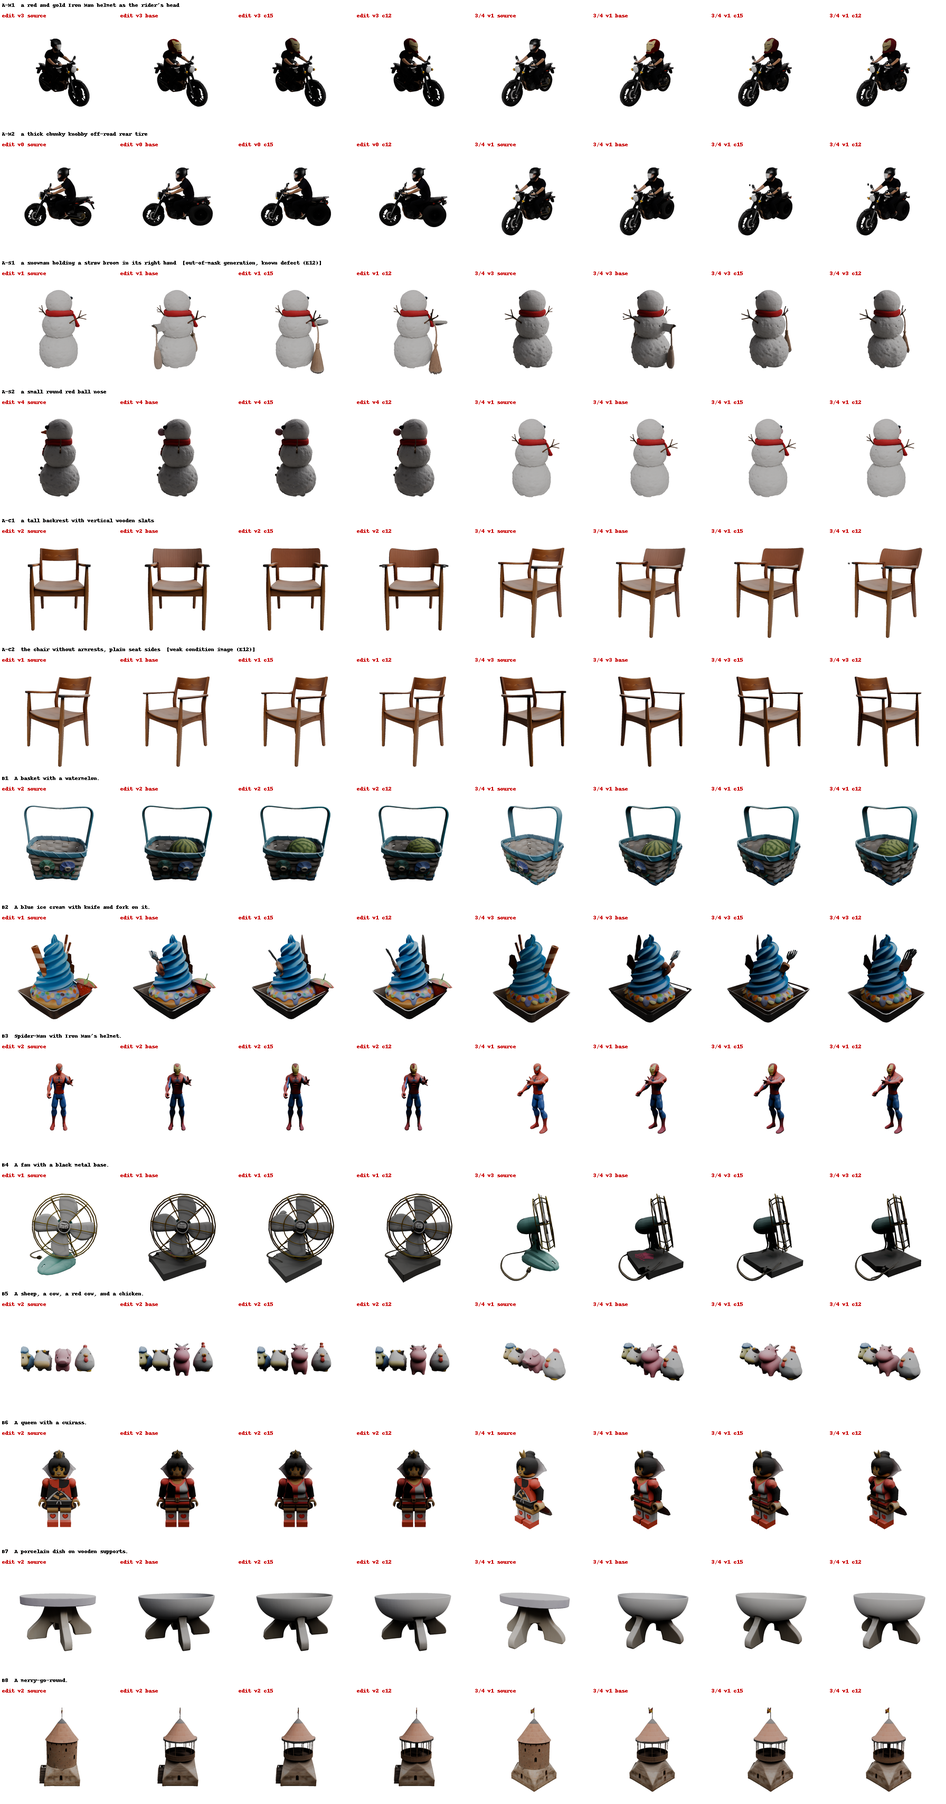
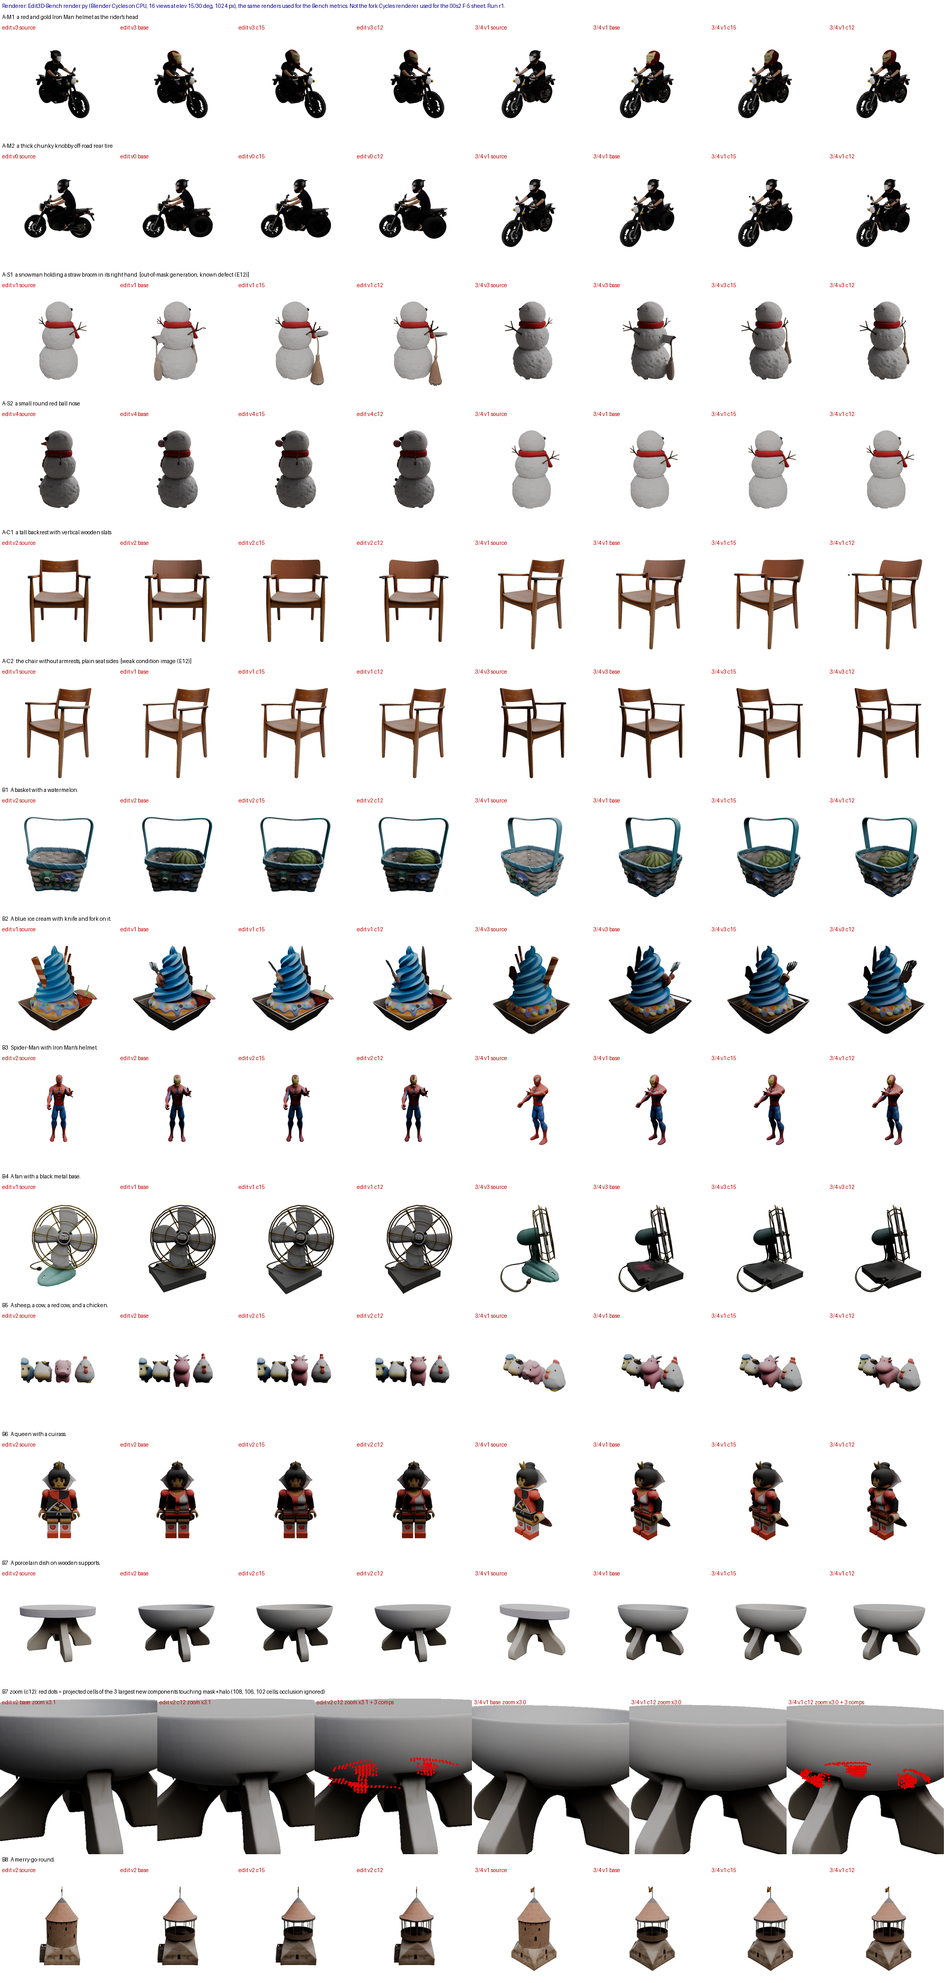
E2a: s1-12/s2-12 Track B r1 metrics (stage attribution 7a), B7 zoom row, renderer caption; e2a_metrics run/track filters, eval merge

diff --git a/tools/e2a_visual.py b/tools/e2a_visual.py
@@ -2,6 +2,9 @@
 
 렌더는 tools/e2a_metrics.py render 가 만든 Bench 16시점(CPU Cycles, 고도 15°·30° × 방위 8)을 그대로 쓴다.
 F-5 시점 v(고도 15°, 방위 [90,45,0,315,270][v]−90)는 Bench 16시점의 고도 15° 줄에서 방위가 같은 번호로 옮긴다.
+B7 은 c12 에서 마스크 ∪ halo 에 붙어 늘어난 큰 성분 3개(§4a)의 확대 컷을 한 줄 더 둔다: 성분 셀 중심을 Bench 카메라
+(반지름 1.8, 원점 주시, Z 위, 센서 32 mm·렌즈 35 mm → 화각 49.1°)로 투영해 그 범위를 자르고, 마지막 칸에 투영 위치를
+빨간 점으로 겹친다(가림은 무시).
 시트: docs/reports/img/01-E2a-visual.png
 """
 from __future__ import annotations
@@ -10,6 +13,9 @@ import json
 import os
 from pathlib import Path
 
+import math
+
+import numpy as np
 from PIL import Image, ImageDraw
 
 ROOT = Path(__file__).resolve().parents[1]
@@ -19,6 +25,9 @@ CONFIGS = ("base", "c15", "c12")
 F5_TO_BENCH = {0: 2, 1: 1, 2: 0, 3: 7, 4: 6}
 TAGS = {"A-C2": "weak condition image (E12)", "A-S1": "out-of-mask generation, known defect (E12)"}
 T = 224
+HEADER = ("Renderer: Edit3D-Bench render.py (Blender Cycles on CPU, 16 views at elev 15/30 deg, 1024 px), "
+          "the same renders used for the Bench metrics. Not the fork Cycles renderer used for the 00s2 F-5 sheet. Run r1.")
+BENCH_AZ = [0, 45, 90, 135, 180, 225, 270, 315]
 
 
 def items():
@@ -42,6 +51,80 @@ def tile(png, caption):
     return t
 
 
+def b7_components(k=3):
+    """B7 c12 의 R_keep 증가 셀(§4a) 중 마스크 ∪ halo 에 맞닿은 큰 성분 k 개의 셀 좌표."""
+    import sys
+    from safetensors import safe_open
+    from scipy import ndimage
+    sys.path.insert(0, str(ROOT / "third_party" / "ai-ar-v3" / "contract" / "python"))
+    from deltacontract.coords import dilate_cells
+    runs = Path(os.environ["RUNS_DIR"])
+    co = lambda p: safe_open(str(p), "np").get_tensor("coords")[:, 1:].astype(int)
+
+    def vol(c):
+        v = np.zeros((64, 64, 64), bool)
+        v[tuple(c.T)] = True
+        return v
+    src = vol(co(ASSETS / "track_b" / "B7" / "slat.safetensors"))
+    excl = vol(dilate_cells(np.array(json.loads((ASSETS / "track_b" / "B7" / "mask.json").read_text())["mask"]["voxels"]), 2))
+    base = vol(co(runs / "01-port" / "track_b-B7" / "port-r1" / "slat_tgt.safetensors"))
+    c12 = vol(co(runs / "2026-10-25" / "track_b-B7" / "e2a-c12" / "r1" / "slat_tgt.safetensors"))
+    inc = (c12 & ~src & ~excl) & ~(base & ~src & ~excl)
+    lab, n = ndimage.label(inc, structure=np.ones((3, 3, 3)))
+    touch = ndimage.binary_dilation(excl, structure=np.ones((3, 3, 3)))
+    comps = [np.argwhere(lab == i) for i in range(1, n + 1) if (touch & (lab == i)).any()]
+    return sorted(comps, key=len, reverse=True)[:k]
+
+
+def project(cells, view, W):
+    """TRELLIS 셀 → Bench 카메라 view 의 픽셀 (x, y). 결과 GLB 가 Bench 프레임과 정렬돼 있어 셀 중심 (i+0.5)/64−0.5 를 그대로 쓴다."""
+    P = (cells + 0.5) / 64 - 0.5
+    el, az = math.radians(15 if view < 8 else 30), math.radians(BENCH_AZ[view % 8] - 90)
+    cam = 1.8 * np.array([math.cos(el) * math.cos(az), math.cos(el) * math.sin(az), math.sin(el)])
+    f = -cam / np.linalg.norm(cam)
+    r = np.cross(f, [0, 0, 1])
+    r /= np.linalg.norm(r)
+    u = np.cross(r, f)
+    d = P - cam
+    t = 16 / 35
+    return np.stack([(d @ r / (d @ f) / t * 0.5 + 0.5) * W, (0.5 - d @ u / (d @ f) / t * 0.5) * W], 1)
+
+
+def b7_zoom_row(it, width):
+    comps = b7_components()
+    cells = np.concatenate(comps)
+    tz = width // 6
+    tiles = []
+    for k, v in enumerate(it["views"]):
+        name = f"render_{F5_TO_BENCH[v]:04d}.png"
+        vt = "edit" if k == 0 else "3/4"
+        ims = {c: Image.alpha_composite(Image.new("RGBA", Image.open(it["pred"](c) / name).size, "white"),
+                                        Image.open(it["pred"](c) / name).convert("RGBA")).convert("RGB") for c in ("base", "c12")}
+        W = ims["c12"].width
+        xy = project(cells, F5_TO_BENCH[v], W)
+        (x0, y0), (x1, y1) = xy.min(0), xy.max(0)
+        half = max(x1 - x0, y1 - y0) / 2 + W * 0.04
+        cx, cy = (x0 + x1) / 2, (y0 + y1) / 2
+        box = tuple(int(round(b)) for b in (cx - half, cy - half, cx + half, cy + half))
+        zoom = tz / (box[2] - box[0])
+        for c, over in (("base", False), ("c12", False), ("c12", True)):
+            t = ims[c].crop(box).resize((tz, tz), Image.LANCZOS)
+            dr = ImageDraw.Draw(t)
+            if over:
+                for comp in comps:
+                    for px, py in project(comp, F5_TO_BENCH[v], W):
+                        qx, qy = (px - box[0]) * zoom, (py - box[1]) * zoom
+                        dr.ellipse((qx - 1.5, qy - 1.5, qx + 1.5, qy + 1.5), fill=(230, 0, 0))
+            dr.text((4, 4), f"{vt} v{v} {c} zoom x{zoom * W / T:.1f}" + (" + 3 comps" if over else ""), fill=(200, 0, 0))
+            tiles.append(t)
+    row = Image.new("RGB", (width, tz + 20), "white")
+    ImageDraw.Draw(row).text((4, 4), "B7 zoom (c12): red dots = projected cells of the 3 largest new components touching "
+                             f"mask+halo ({', '.join(str(len(c)) for c in comps)} cells; occlusion ignored)", fill=(0, 0, 0))
+    for i, t in enumerate(tiles):
+        row.paste(t, (tz * i, 20))
+    return row
+
+
 def main():
     rows = []
     for it in items():
@@ -57,10 +140,17 @@ def main():
         for i, t in enumerate(tiles):
             row.paste(t, (T * i, 20))
         rows.append(row)
+        if it["id"] == "B7":
+            rows.append(b7_zoom_row(it, row.width))
         print("visual", it["id"], flush=True)
+    head = Image.new("RGB", (rows[0].width, 22), "white")
+    ImageDraw.Draw(head).text((4, 5), HEADER, fill=(0, 0, 160))
+    rows.insert(0, head)
     sheet = Image.new("RGB", (rows[0].width, sum(r.height for r in rows)), "white")
-    for i, r in enumerate(rows):
-        sheet.paste(r, (0, r.height * i))
+    y = 0
+    for r in rows:
+        sheet.paste(r, (0, y))
+        y += r.height
     dst = ROOT / "docs" / "reports" / "img" / "01-E2a-visual.png"
     dst.parent.mkdir(parents=True, exist_ok=True)
     sheet.save(dst, optimize=True)

diff --git a/tools/e2a_metrics.py b/tools/e2a_metrics.py
@@ -30,6 +30,9 @@ EVAL_PY = os.environ.get("EVAL_PY", str(Path.home() / "vhl-venvs/edit3dbench/bin
 BENCH_SRC = ROOT / "third_party" / "VoxHammer" / "Edit3D-Bench"
 SCEN_DIR = ROOT / "scenarios" if (ROOT / "scenarios" / "track_b.json").exists() else ROOT.parent / "vhl-00s2" / "scenarios"
 CONFIGS = [c for c in os.environ.get("E2A_CONFIGS", "base,c15,c12").split(",") if c]
+# render·eval 만 좁힌다(예: s1-12·s2-12 는 트랙 B r1 만): E2A_RUNS=r1 E2A_TRACKS=B
+RUN_IDS = [r for r in os.environ.get("E2A_RUNS", "r1,r2,r3").split(",") if r]
+TRACKS = [t for t in os.environ.get("E2A_TRACKS", "A,B").split(",") if t]
 
 
 def scenarios():
@@ -154,6 +157,8 @@ def render():
     gtA = OUT / "trackA_gt" / "data"
     meta = []
     for s in scenarios():
+        if s["track"] not in TRACKS:
+            continue
         if s["track"] == "A":
             # 트랙 A 정답(원본 16시점)과 metadata
             g = gtA / "TrackA" / s["id"]
@@ -166,7 +171,7 @@ def render():
                     Image.new("L", (512, 512), 0).save(mp)  # 마스크 밖 지표는 트랙 A 에서 쓰지 않는다
             meta.append({"dataset": "TrackA", "source_model": s["id"], "source_prompt": s["asset"], "prompt_1": s["prompt"]})
         for cfg in CONFIGS:
-            for r in ("r1", "r2", "r3"):
+            for r in RUN_IDS:
                 glb = run_dir(s, cfg, r)[0] / "output.glb"
                 if not glb.exists():
                     continue
@@ -181,17 +186,21 @@ def render():
                     _norm_glb(glb, d / "edit.glb", s["norm"])
                 _render(d / "edit.glb", d / "images")
                 print("rendered", cfg, r, s["id"], flush=True)
-    (gtA / "metadata.json").write_text(json.dumps(meta, indent=1))
+    if meta:
+        (gtA / "metadata.json").write_text(json.dumps(meta, indent=1))
 
 
 def evaluate():
-    res = {}
+    # 이미 있는 설정의 결과는 두고, 이번 CONFIGS 의 시나리오만 덮어쓴다
+    res = json.loads((OUT / "eval.json").read_text()) if (OUT / "eval.json").exists() else {}
     for s in scenarios():
+        if s["track"] not in TRACKS:
+            continue
         gt = ASSETS / "Edit3D-Bench" / "data" if s["track"] == "B" else OUT / "trackA_gt" / "data"
         metrics = ["psnr", "ssim", "lpips", "dino_i", "chamfer", "clip_t"] if s["track"] == "B" else ["dino_i", "clip_t"]
         for cfg in CONFIGS:
             vals = {}
-            for r in ("r1", "r2", "r3"):
+            for r in RUN_IDS:
                 pred = OUT / "pred" / cfg / r / s["id"]
                 if not pred.exists():
                     continue

diff --git a/docs/reports/01-E2a.md b/docs/reports/01-E2a.md
@@ -25,7 +25,11 @@
   - 효능 저하는 0건이다. A-S1 은 오히려 나아졌다.
   - 보이는 결함은 떨어진 작은 점(A-M2·A-C1)뿐이다.
 - **꺼짐(§9):** coords 일치, 보존 셀 비트 동일, mean\|Δ\| ≤ 3.2e-3 로 통과다.
-- **채택:** 고객사가 육안 비교 후 결정한다. 참고로 s2-12(25/12)는 R_keep 이 base 와 같은 후보다. 품질 지표는 미측정이다(§7).
+- **원인 stage(§7·§7a):** R_keep 변화와 트랙 B 렌더 지표 변화가 모두 Stage 1 스텝 축소에서 온다. s1-12 의 지표 Δ 는 c12 와 상관 0.99–1.00 이고, s2-12 의 Δ 는 c12 의 4–17% 다.
+- **채택:** 고객사가 육안 비교 후 결정한다.
+  - s2-12(25/12)는 R_keep 이 base 와 같다.
+  - 지표 변화는 작지만, base 3회 폭 기준으로는 48칸 중 14칸이 악화다.
+  - 절감은 약 −12 s(추정)다.
 
 ## 1. 예상 (실행 전, 2026-10-25)
 
@@ -323,11 +327,15 @@ R_keep 은 coords 만 보므로 3회 표준편차 0(Stage 1 결정적)이고, St
 - **B7 c12: DINO-I 가 크게 오른다**(+0.062, 0.820 → 0.881). 반면 LPIPS·Chamfer 는 범위를 넘어 나빠진다. §4a 에서 마스크에 붙어 늘어난 360 셀이 이 차이의 후보다(추론).
 
 - 채택은 고객사가 육안 비교 후 결정한다(E18).
-- 원자료 `$RUNS_DIR/e2a_metrics/eval.json` sha256 `590c710f5a460c39…`.
+- 원자료 `$RUNS_DIR/e2a_metrics/eval.json` sha256 `5c095b286c251f86…`(s1-12·s2-12 트랙 B r1 포함). base·c15·c12 값은 3 설정 판(`590c710f5a460c39…`)과 같다.
 
 ## 6. 육안 비교 (실측 렌더, r1)
 
 ![E2a visual](img/01-E2a-visual.png)
+
+**렌더러(시트 맨 위에도 표기).**
+- 이 시트는 지표 계산에 쓴 Bench 렌더를 그대로 쓴다: Edit3D-Bench `render.py render_images`, Blender Cycles, CPU, 16시점(고도 15°·30° × 방위 8), 1024 px.
+- **00s2 F-5 시트의 렌더러(포크 `utils/render_rgb_and_mask.render_model`, Cycles 5시점)와 다르다.** 조명·카메라 거리·해상도가 달라 두 시트의 그림을 서로 겹쳐 비교하지 않는다.
 
 **시트 구성.**
 - 행은 14건이다. 열은 편집 시점의 원본 | base | c15 | c12, 3/4 시점의 원본 | base | c15 | c12 다.
@@ -349,8 +357,18 @@ R_keep 은 coords 만 보므로 3회 표준편차 0(Stage 1 결정적)이고, St
 | B4 | 보임 / 보임 / 보임 | 검은 금속 받침. base 3/4 시점의 받침 위 붉은 얼룩이 c15·c12 에는 없다 |
 | B5 | 보임 / 보임 / 보임 | 빨간 소 |
 | B6 | 보임 / 보임 / 보임 | 흉갑 |
-| B7 | 보임 / 보임 / 보임 | 그릇·받침. c12 의 마스크에 붙은 증가 360 셀(§4a)은 이 두 시점에서 뚜렷한 차이로 보이지 않는다. 고객사 뷰어(8083)에서 다른 각도로 확인 요청 |
+| B7 | 보임 / 보임 / 보임 | 그릇·받침. c12 의 마스크에 붙은 증가 360 셀(§4a)은 전체 컷에서는 뚜렷한 차이로 보이지 않는다. 아래 확대 줄 참고 |
 | B8 | 보임 / 보임 / 보임 | 회전목마 지붕·기둥 |
+
+**B7 확대 줄(c12, 고객사 육안 판단용).**
+- 시트의 B7 행 바로 아래 줄이다. 편집 시점 v2 와 3/4 시점 v1 마다 base | c12 | c12 + 성분 표시를 둔다. 확대는 약 3배다.
+- 표시한 성분: §4a 의 마스크 ∪ halo 에 맞닿은 증가 성분 중 큰 3개(108·106·102 셀).
+- 만드는 법:
+  - 성분 셀 중심을 Bench 카메라로 투영해 그 범위를 자르고, 마지막 칸에 투영 위치를 빨간 점으로 겹쳤다. 가림은 무시했다.
+  - Bench 카메라 조건: 반지름 1.8, 원점 주시, Z 위, bpyrenderer 기본 센서 32 mm·렌즈 35 mm → 화각 49.1°.
+  - 투영은 B7 원본 셀을 같은 방식으로 투영한 실루엣이 원본 렌더와 IoU 0.87 로 맞는 것을 먼저 확인했다(실측).
+- 위치: 세 성분은 **그릇 밑면이 다리 윗부분과 만나는 자리**(다리 3개 쪽)에 붙어 있다.
+- 렌더에서 보이는 차이(육안): c12 는 그 자리에서 그릇 밑면이 다리 쪽으로 조금 더 내려와 덮는다. 따로 떨어진 덩어리나 뚫린 곳은 보이지 않는다. 판단은 고객사 몫이다.
 
 - **효능:** c15·c12 모두 base 와 같은 12건에서 편집이 보인다. A-S1 은 base 의 "부분"에서 "보임"으로 나아졌고, A-C2 는 세 설정 모두 약하다. 예상과 같다.
 - **눈에 띄는 결함:** 떨어진 작은 점(A-M2·A-C1)뿐이고, §4a 에서 9a 가 지우는 쪽으로 분류된 성분이다.
@@ -372,11 +390,94 @@ R_keep 은 coords 만 보므로 3회 표준편차 0(Stage 1 결정적)이고, St
 
 - **예상과 같다.** coords 를 정렬해 바로 비교했고, 회차마다 완전히 일치한다.
 - 판정: **R_keep 시나리오별 초과(§4·§4a)의 원인은 전부 Stage 1 스텝 축소다.** Stage 2 스텝 수는 R_keep 에 영향이 없다.
-- 이 결과에서 나오는 설정 후보(추론, 지표로는 확인 안 함): s2-12(25/12)는 R_keep 이 base 와 비트 동일하면서 Stage 2 만 줄인다.
+- 이 결과에서 나오는 설정 후보: s2-12(25/12)는 R_keep 이 base 와 비트 동일하면서 Stage 2 만 줄인다. 트랙 B 렌더 지표 변화는 c12 의 4–17% 다(§7a, 실측).
   - 절감은 시간 비례로 추정한다. Stage 2 가 23.5 s → 11.4 s 가 되므로 약 −12 s, 분모 226.8 s 의 약 5% 다.
   - 직접 잰 s2-12 의 시간(−8.7 s)은 † 참고값이다.
-  - 마스크 안 Stage 2 feats 와 렌더 지표에 미치는 영향은 이번에 재지 않았다(미검증).
+  - 트랙 A 지표와 육안 비교는 s2-12 에 대해 하지 않았다(미검증).
 - 원자료: `$RUNS_DIR/2026-10-25/<시나리오>/e2a-{s1-12,s2-12}/r{1,2,3}`, `rkeep.json`(위 sha).
+- 회차 메모: chief 의 "s1-12·s2-12 는 r1 만" 지시가 도착하기 전에 3회가 이미 끝나 있었다. R_keep 은 3회가 같고(Stage 1 결정적), 그대로 썼다.
+
+### 7a. 렌더 품질의 원인 stage — 트랙 B 8건, s1-12·s2-12 r1 (실측)
+
+**측정 조건.**
+- §5 와 같은 Bench 렌더·`eval_main.py` 로 s1-12·s2-12 의 r1 결과 GLB 를 쟀다(지시대로 r1 1회).
+- 비교 기준은 §5 와 같은 base 3회 평균과 폭이다.
+- c12 열도 같은 r1 값으로 나란히 둔다.
+- 이 두 설정의 실행은 CPU 렌더와 겹쳤다. 지표는 결과 GLB 로만 정해지므로 겹침의 영향을 받지 않는다.
+
+**c12 의 변화가 어느 stage 에서 오는가 (트랙 B 8건, base 평균 대비 Δ):**
+
+| 지표 | 평균 \|Δ\| c12 | 평균 \|Δ\| s1-12 | 평균 \|Δ\| s2-12 | s2-12 / c12 | 상관(c12 Δ, s1-12 Δ) |
+|---|---|---|---|---|---|
+| PSNR | 0.895 dB | 0.885 dB | 0.038 dB | 0.04 | 1.000 |
+| SSIM | 4.5e-3 | 4.5e-3 | 1.9e-4 | 0.04 | 1.000 |
+| LPIPS | 5.9e-3 | 6.0e-3 | 3.0e-4 | 0.05 | 1.000 |
+| DINO-I | 1.37e-2 | 1.32e-2 | 1.6e-3 | 0.12 | 0.994 |
+| Chamfer | 1.49e-3 | 1.50e-3 | 1.6e-4 | 0.11 | 0.997 |
+| CLIP-T | 5.9e-3 | 6.2e-3 | 1.0e-3 | 0.17 | 0.992 |
+
+**판정(실측).**
+- **c12 의 렌더 지표 변화는 거의 전부 Stage 1 스텝 축소에서 온다.**
+  - s1-12(Stage 1 만 12 스텝)의 Δ 는 c12 의 Δ 와 크기·방향이 같다(상관 0.99–1.00).
+  - 예: B2 PSNR +3.6 / +3.6 dB, B6 −0.45 / −0.40 dB, B8 −0.58 / −0.60 dB, B7 DINO-I +0.061 / +0.064.
+  - §7 의 R_keep(coords) 분리 결과와 같은 결론이다.
+- **Stage 2 스텝 축소(s2-12)는 지표를 c12 의 4–17% 만큼만 움직인다.**
+  - 다만 base 3회 폭이 아주 좁아, 48칸 중 14칸은 그 폭을 넘어 나빠진다. 큰 것은 B8 PSNR −0.11 dB·LPIPS +3.7e-4, B4 DINO-I −5.5e-3, B6 DINO-I −2.2e-3 이다.
+  - E18 문언대로면 s2-12 도 "통과 후보"는 아니다(악화 14 / 범위 안 17 / 개선 17).
+- 집계(악화 / 범위 안 / 개선, 48칸): c12 r1 19 / 3 / 26, s1-12 r1 19 / 5 / 24, s2-12 r1 14 / 17 / 17.
+- 1회 값이라 회차 간 흔들림은 반영되지 않았다. Stage 2 실행 간 차이(base 3회 폭) 수준이다.
+
+| ID | 지표 | base 평균 (3회 폭) | c12 r1 (Δ) | s1-12 r1 (Δ) | s1-12 | s2-12 r1 (Δ) | s2-12 |
+|---|---|---|---|---|---|---|---|
+| B1 | psnr | 25.47 (7.2e-03) | 25.45 (-2.5e-02) | 25.47 (-6.2e-03) | 범위 안 | 25.46 (-1.4e-02) | **악화** |
+| B1 | ssim | 0.9304 (1.6e-04) | 0.9310 (+5.6e-04) | 0.9312 (+7.9e-04) | 개선 | 0.9304 (-4.8e-05) | 범위 안 |
+| B1 | dino_i | 0.9293 (2.6e-04) | 0.9322 (+2.9e-03) | 0.9285 (-7.7e-04) | **악화** | 0.9295 (+2.4e-04) | 범위 안 |
+| B1 | clip_t | 0.3274 (2.6e-04) | 0.3160 (-1.1e-02) | 0.3120 (-1.5e-02) | **악화** | 0.3283 (+9.4e-04) | 개선 |
+| B1 | lpips | 0.0321 (1.3e-04) | 0.0323 (+2.3e-04) | 0.0324 (+3.1e-04) | **악화** | 0.0321 (-2.8e-05) | 범위 안 |
+| B1 | chamfer | 0.0091 (7.0e-04) | 0.0092 (+8.9e-05) | 0.0091 (+4.6e-05) | 범위 안 | 0.0086 (-5.1e-04) | 범위 안 |
+| B2 | psnr | 25.08 (1.7e-03) | 28.67 (+3.6e+00) | 28.66 (+3.6e+00) | 개선 | 25.10 (+1.8e-02) | 개선 |
+| B2 | ssim | 0.9244 (3.4e-05) | 0.9491 (+2.5e-02) | 0.9491 (+2.5e-02) | 개선 | 0.9238 (-5.8e-04) | **악화** |
+| B2 | dino_i | 0.9140 (1.4e-03) | 0.9106 (-3.5e-03) | 0.9068 (-7.3e-03) | **악화** | 0.9117 (-2.3e-03) | **악화** |
+| B2 | clip_t | 0.2887 (3.4e-04) | 0.2940 (+5.3e-03) | 0.2937 (+5.0e-03) | 개선 | 0.2904 (+1.7e-03) | 개선 |
+| B2 | lpips | 0.0651 (3.5e-05) | 0.0370 (-2.8e-02) | 0.0371 (-2.8e-02) | 개선 | 0.0639 (-1.2e-03) | 개선 |
+| B2 | chamfer | 0.0102 (2.1e-04) | 0.0098 (-4.3e-04) | 0.0093 (-9.0e-04) | 개선 | 0.0100 (-1.8e-04) | 범위 안 |
+| B3 | psnr | 33.33 (5.3e-02) | 33.36 (+3.0e-02) | 33.36 (+2.3e-02) | 범위 안 | 33.31 (-2.2e-02) | 범위 안 |
+| B3 | ssim | 0.9836 (2.0e-04) | 0.9838 (+1.6e-04) | 0.9837 (+8.2e-05) | 범위 안 | 0.9836 (-6.8e-05) | 범위 안 |
+| B3 | dino_i | 0.9873 (1.1e-03) | 0.9841 (-3.2e-03) | 0.9851 (-2.1e-03) | **악화** | 0.9872 (-8.7e-05) | 범위 안 |
+| B3 | clip_t | 0.3223 (5.4e-04) | 0.3235 (+1.2e-03) | 0.3225 (+2.2e-04) | 범위 안 | 0.3217 (-6.4e-04) | **악화** |
+| B3 | lpips | 0.0112 (7.1e-05) | 0.0106 (-5.4e-04) | 0.0107 (-4.8e-04) | 개선 | 0.0112 (+4.1e-06) | 범위 안 |
+| B3 | chamfer | 0.0042 (6.5e-05) | 0.0041 (-8.9e-05) | 0.0041 (-8.9e-05) | 개선 | 0.0042 (-2.8e-05) | 범위 안 |
+| B4 | psnr | 23.26 (4.2e-03) | 23.80 (+5.5e-01) | 23.77 (+5.1e-01) | 개선 | 23.27 (+1.7e-02) | 개선 |
+| B4 | ssim | 0.9344 (3.9e-05) | 0.9389 (+4.6e-03) | 0.9386 (+4.2e-03) | 개선 | 0.9346 (+2.8e-04) | 개선 |
+| B4 | dino_i | 0.8594 (6.4e-04) | 0.8772 (+1.8e-02) | 0.8728 (+1.3e-02) | 개선 | 0.8539 (-5.5e-03) | **악화** |
+| B4 | clip_t | 0.2682 (4.2e-04) | 0.2647 (-3.4e-03) | 0.2645 (-3.6e-03) | **악화** | 0.2664 (-1.7e-03) | **악화** |
+| B4 | lpips | 0.0505 (9.3e-05) | 0.0456 (-5.0e-03) | 0.0457 (-4.9e-03) | 개선 | 0.0504 (-1.4e-04) | 개선 |
+| B4 | chamfer | 0.0209 (1.4e-04) | 0.0134 (-7.5e-03) | 0.0139 (-7.1e-03) | 개선 | 0.0206 (-3.5e-04) | 개선 |
+| B5 | psnr | 30.79 (8.8e-03) | 32.59 (+1.8e+00) | 32.61 (+1.8e+00) | 개선 | 30.81 (+1.4e-02) | 개선 |
+| B5 | ssim | 0.9847 (6.4e-05) | 0.9882 (+3.5e-03) | 0.9882 (+3.5e-03) | 개선 | 0.9847 (+2.2e-05) | 범위 안 |
+| B5 | dino_i | 0.9575 (1.3e-03) | 0.9672 (+9.6e-03) | 0.9659 (+8.4e-03) | 개선 | 0.9582 (+6.9e-04) | 범위 안 |
+| B5 | clip_t | 0.2922 (1.5e-04) | 0.2856 (-6.5e-03) | 0.2856 (-6.6e-03) | **악화** | 0.2911 (-1.0e-03) | **악화** |
+| B5 | lpips | 0.0221 (8.0e-05) | 0.0133 (-8.8e-03) | 0.0133 (-8.8e-03) | 개선 | 0.0219 (-1.9e-04) | 개선 |
+| B5 | chamfer | 0.0057 (1.2e-04) | 0.0048 (-9.3e-04) | 0.0048 (-8.8e-04) | 개선 | 0.0057 (-1.3e-05) | 범위 안 |
+| B6 | psnr | 30.70 (1.4e-02) | 30.25 (-4.5e-01) | 30.30 (-4.0e-01) | **악화** | 30.67 (-2.8e-02) | **악화** |
+| B6 | ssim | 0.9773 (7.7e-05) | 0.9764 (-9.1e-04) | 0.9765 (-8.5e-04) | **악화** | 0.9773 (+1.7e-05) | 범위 안 |
+| B6 | dino_i | 0.9709 (1.9e-04) | 0.9607 (-1.0e-02) | 0.9625 (-8.4e-03) | **악화** | 0.9687 (-2.2e-03) | **악화** |
+| B6 | clip_t | 0.2566 (8.7e-05) | 0.2579 (+1.2e-03) | 0.2574 (+7.6e-04) | 개선 | 0.2574 (+7.7e-04) | 개선 |
+| B6 | lpips | 0.0187 (7.1e-05) | 0.0199 (+1.1e-03) | 0.0199 (+1.2e-03) | **악화** | 0.0188 (+2.6e-05) | 범위 안 |
+| B6 | chamfer | 0.0070 (5.7e-05) | 0.0083 (+1.3e-03) | 0.0083 (+1.4e-03) | **악화** | 0.0069 (-1.2e-04) | 개선 |
+| B7 | psnr | 28.37 (1.1e-03) | 28.51 (+1.4e-01) | 28.51 (+1.4e-01) | 개선 | 28.46 (+8.6e-02) | 개선 |
+| B7 | ssim | 0.9758 (2.0e-06) | 0.9761 (+2.8e-04) | 0.9760 (+2.5e-04) | 개선 | 0.9760 (+2.7e-04) | 개선 |
+| B7 | dino_i | 0.8196 (1.1e-03) | 0.8806 (+6.1e-02) | 0.8833 (+6.4e-02) | 개선 | 0.8203 (+7.0e-04) | 범위 안 |
+| B7 | clip_t | 0.2663 (2.1e-04) | 0.2740 (+7.7e-03) | 0.2743 (+8.0e-03) | 개선 | 0.2656 (-7.3e-04) | **악화** |
+| B7 | lpips | 0.0235 (3.8e-05) | 0.0239 (+4.5e-04) | 0.0239 (+4.4e-04) | **악화** | 0.0229 (-5.1e-04) | 개선 |
+| B7 | chamfer | 0.0126 (3.4e-04) | 0.0138 (+1.2e-03) | 0.0138 (+1.2e-03) | **악화** | 0.0126 (+4.3e-05) | 범위 안 |
+| B8 | psnr | 35.15 (6.4e-02) | 34.56 (-5.8e-01) | 34.55 (-6.0e-01) | **악화** | 35.04 (-1.1e-01) | **악화** |
+| B8 | ssim | 0.9844 (3.4e-05) | 0.9831 (-1.3e-03) | 0.9832 (-1.2e-03) | **악화** | 0.9842 (-2.8e-04) | **악화** |
+| B8 | dino_i | 0.8382 (2.4e-04) | 0.8371 (-1.1e-03) | 0.8363 (-1.9e-03) | **악화** | 0.8372 (-9.4e-04) | **악화** |
+| B8 | clip_t | 0.2289 (4.2e-04) | 0.2397 (+1.1e-02) | 0.2392 (+1.0e-02) | 개선 | 0.2297 (+7.6e-04) | 개선 |
+| B8 | lpips | 0.0229 (1.2e-04) | 0.0260 (+3.1e-03) | 0.0265 (+3.6e-03) | **악화** | 0.0233 (+3.7e-04) | **악화** |
+| B8 | chamfer | 0.0055 (1.2e-05) | 0.0059 (+3.9e-04) | 0.0059 (+4.3e-04) | **악화** | 0.0054 (-2.7e-05) | 개선 |
+
 
 ## 8. 예상 대비 결과
 
